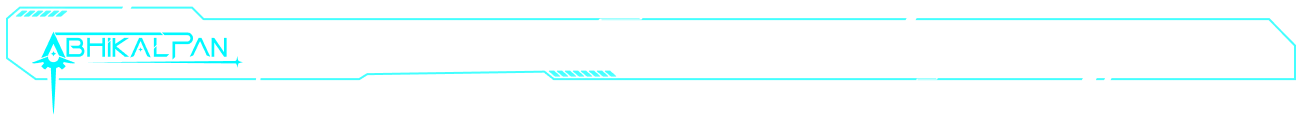
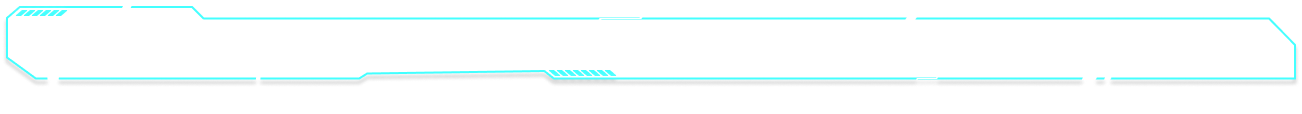
responsiveness and ungroup of navbar

Changed region(s): [[0.0, 0.2632, 1.0, 0.7895], [0.0, 0.0526, 0.1536, 0.1579], [0.4608, 0.1316, 0.4916, 0.1842]]

diff --git a/app/(Custom Components)/Navbar.tsx b/app/(Custom Components)/Navbar.tsx
@@ -2,20 +2,25 @@ import Image from "next/image";
 import React from "react";
 import Navbr from "@/public/assets/Navbar.png";
 import Union from "@/public/assets/Union.png";
+import Logo from "@/public/assets/Logo.png";
 import Link from "next/link";
 
 const Navbar = () => {
   return (
     <div className="flex sticky justify-center content-center flex-col p-0 m-0">
-      <div>
+      <Image
+        src={Logo}
+        alt="logo"
+        className="absolute top-[27%] left-[3.25%] w-[16%] max-w-[19rem]"
+      />
+      <div className="relative w-full">
         <Image
           src={Navbr}
           alt="logo"
-          width={1300}
-          height={100}
-          className="p-4"
+          layout="responsive"
+          className="p-4 w-full"
         />
-        <div className="absolute top-[3rem] right-[7rem] flex gap-[4rem] text-lg text-cyan-300">
+        <div className="absolute top-[33%] right-[7rem] flex gap-[1rem] lg:gap-[4rem] text-lg text-cyan-300 text-lg">
           <Link href="/">Home</Link>
           <Link href="/about">About</Link>
           <Link href="/events">Events</Link>
@@ -24,14 +29,8 @@ const Navbar = () => {
           <Link href="/contact">Contact</Link>
         </div>
       </div>
-      <div className="absolute top-[6.5rem] right-[7rem] flex gap-[4rem] text-lg text-cyan-300">
-        <Image
-          src={Union}
-          alt="logo"
-          width={1100}
-          height={100}
-          className="p-0 opacity-50"
-        />
+      <div className="absolute top-[72%] right-[2%] flex gap-[4rem] text-cyan-300 pl-[10%] pr-[2%] w-full">
+        <Image src={Union} alt="logo" className="p-0 opacity-50 w-full" />
       </div>
     </div>
   );

diff --git a/app/(Custom Components)/Contactus.tsx b/app/(Custom Components)/Contactus.tsx
@@ -1,5 +1,7 @@
 import Image from "next/image";
 import React from "react";
+import Group from "@/public/images/Group.png";
+import Groupgear from "@/public/images/Groupgear.png";
 
 const Contact = () => {
   return (
@@ -32,7 +34,7 @@ const Contact = () => {
               <p>+91 70009 47461</p>
             </div>
             <div className="flex relative left-10 -top-40 gap-4">
-              <Image src="images/Group.png" alt="" width="50" height="50" />
+              <Image src={Group} alt="" width="50" height="50" />
               <p>22bme021@iiitdmj.ac.in</p>
             </div>
           </div>
@@ -54,7 +56,7 @@ const Contact = () => {
               <p>+91 84096 46129</p>
             </div>
             <div className="flex relative left-10 -top-40 gap-4">
-              <Image src="images/Group.png" alt="" width="50" height="50" />
+              <Image src={Group} alt="" width="50" height="50" />
               <p>22bme051@iiitdmj.ac.in</p>
             </div>
           </div>
@@ -76,14 +78,14 @@ const Contact = () => {
               <p>+91 81075 91910</p>
             </div>
             <div className="flex relative left-10 -top-40 gap-4">
-              <Image src="/images/Group.png" alt="" width="50" height="50" />
+              <Image src={Group} alt="" width="50" height="50" />
               <p>yashpalk@iiitdmj.ac.in</p>
             </div>
           </div>
         </div>
         <Image
           className="relative -top-[90vh] left-[120vh]"
-          src="/images/Groupgear.png"
+          src={Groupgear}
           alt="blah"
         />
       </div>

diff --git a/app/(Custom Components)/aboutus.tsx b/app/(Custom Components)/aboutus.tsx
@@ -1,5 +1,6 @@
 import React from "react";
 import { Button } from "../components/ui/Button";
+// import Img1 from "../images/img1.png";
 
 const AboutUs = () => {
   return (
@@ -61,10 +62,10 @@ const AboutUs = () => {
         <div className="flex items-center justify-end h-screen relative">
           <img
             className="absolute top-0 left-0 w-auto h-auto"
-            src="/images/img1.png"
+            // src={Img1}
             alt="text"
           />
-          <img className="w-full h-auto" src="/images/img2.png" alt="circle" />
+          <img className="w-full h-auto" alt="circle" />
         </div>
       </div>
     </>

diff --git a/app/page.tsx b/app/page.tsx
@@ -1,4 +1,4 @@
-import AboutUs from "./(Custom Components)/Aboutus";
+import AboutUs from "./(Custom Components)/aboutus";
 import Contact from "./(Custom Components)/Contactus";
 import Navbar from "./(Custom Components)/Navbar";
 import Schedule from "./(Custom Components)/Schedule";
